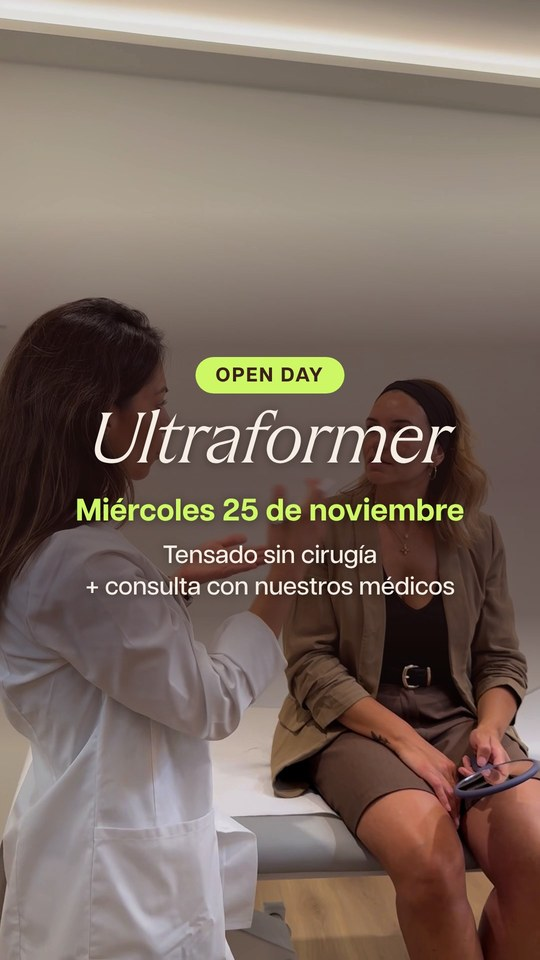
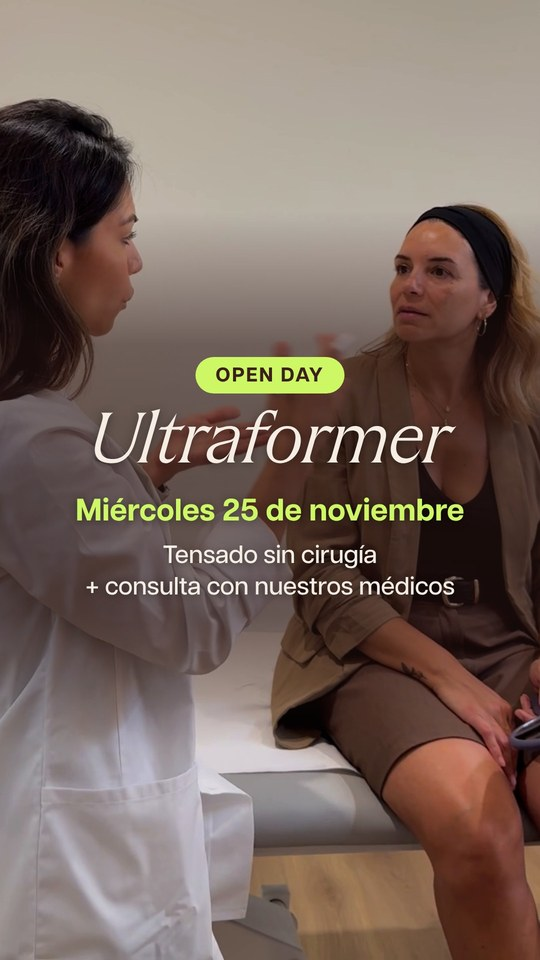
Portada reel 20: imagen subida, caras por encima del texto
Claude-Session: https://claude.ai/code/session_01JZ4qrB4vBJCM1LriYw1bZU

diff --git a/public/pitch/skin-laundry-calendario/noviembre/index.html b/public/pitch/skin-laundry-calendario/noviembre/index.html
@@ -746,7 +746,7 @@ Siempre empieza con una consulta previa con nuestros médicos. Puedes pedirla de
 📍 Av. Diagonal 610, Barcelona
 #Glowtox #KoreanSkin #GlassSkin #SkinLaundryBarcelona #MedicinaEsteticaBarcelona` },
 
-{ d:20, formato:"Reel", portada:"/pitch/skin-laundry-calendario/noviembre/img/portada_20.jpg?v=11181122", repost:[{t:"link",txt:"Consulta previa con nuestros médicos"}], media:"/pitch/skin-laundry-calendario/noviembre/img/drive-d20.mp4?v=11171542", poster:"/pitch/skin-laundry-calendario/noviembre/img/drive-d20_poster.jpg?v=11181122", estado:"listo",
+{ d:20, formato:"Reel", portada:"/pitch/skin-laundry-calendario/noviembre/img/portada_20.jpg?v=11181125", repost:[{t:"link",txt:"Consulta previa con nuestros médicos"}], media:"/pitch/skin-laundry-calendario/noviembre/img/drive-d20.mp4?v=11171542", poster:"/pitch/skin-laundry-calendario/noviembre/img/drive-d20_poster.jpg?v=11181125", estado:"listo",
   nota:"Editado con el estilo del reel de referencia de la marca: texto lima palabra a palabra, píldoras granate, pantallazos de color a golpe de beat y cierre en crema · planos del vídeo 1 año SKL que no se usan en ningún otro reel (las píldoras tapan sus textos) · house nuevo a 126 BPM · hay versión sin música · añadir horario del open day si lo confirman",  cubo:"Med. estética", tema:"Ultraformer", hora:"18:30h",
   pieza:"Invitación al open day del 25 de noviembre",
   base:"Doc §1", cta:"Consulta previa con nuestros médicos",
